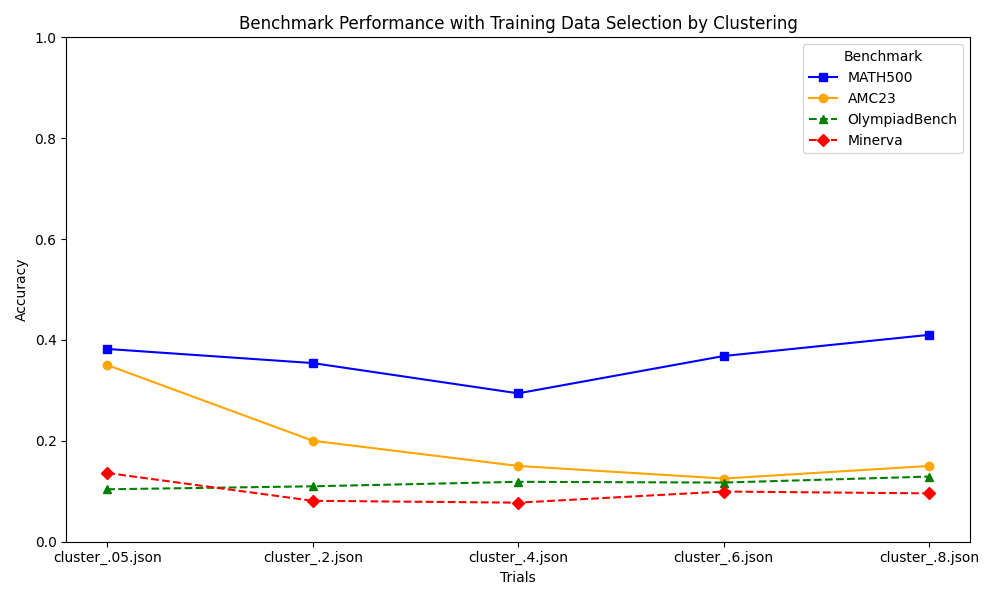
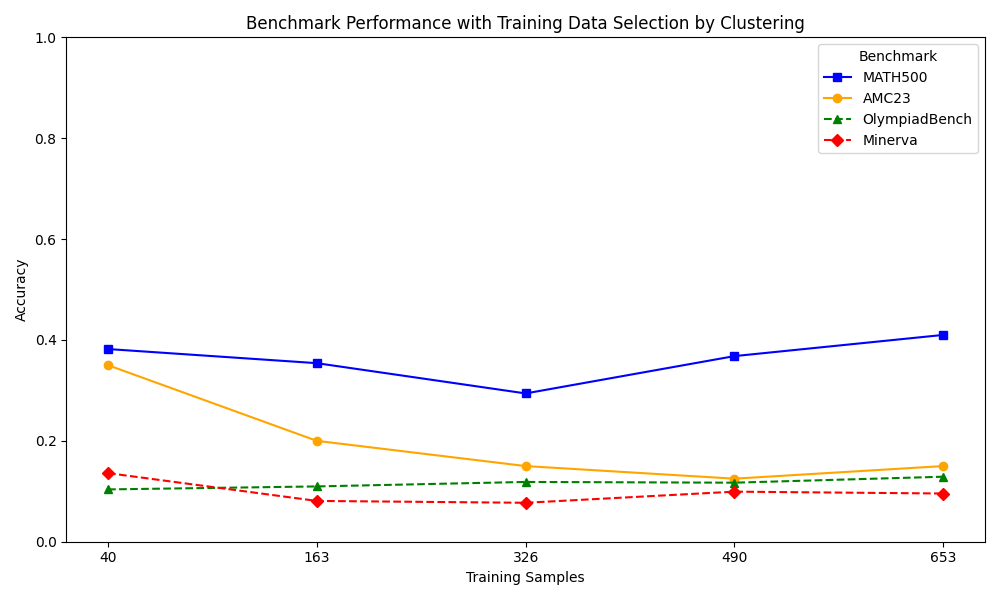
Change x axis to be number of training samples instead of file name

diff --git a/plot_results.py b/plot_results.py
@@ -2,10 +2,11 @@ import json
 import os
 import matplotlib.pyplot as plt
 import numpy as np
+import math
 
 # Load the benchmark performance results for all trials that used
 # the given training data selection method
-def load_acc_results(results_folder, selection_method, benchmarks):
+def load_acc_results(results_folder, selection_method, benchmarks, total_train_samples):
     acc_results = {}
 
     for filename in os.listdir(results_folder):
@@ -18,14 +19,16 @@ def load_acc_results(results_folder, selection_method, benchmarks):
                 for benchmark in benchmarks:
                     acc = benchmark_results[benchmark]["accuracy"]
                     accuracies.append(acc)
-                acc_results[filename] = accuracies # store all benchmark accuracies for the current trial
+                train_sample_proportion = float(filename.strip(".json").split("_")[1])
+                num_train_samples = math.floor(train_sample_proportion * total_train_samples)
+                acc_results[num_train_samples] = accuracies # store all benchmark accuracies for the current trial
 
     return acc_results
 
 
 # Create a grouped bar chart showing the benchmark accuracies for each trial
 def plot_results(acc_results, plot_title, benchmarks, benchmark_plot_styles, selection_method):
-    trial_names = acc_results.keys()
+    trial_names = acc_results.keys() # trials are named according to the number of training samples used
     num_trials = len(trial_names)
     num_benchmarks = len(benchmarks)
 
@@ -39,7 +42,7 @@ def plot_results(acc_results, plot_title, benchmarks, benchmark_plot_styles, sel
         axes.plot(x, [acc_results[trial_name][i] for trial_name in trial_names], marker=marker, label=benchmark, linestyle=linestyle, color=color)
 
     axes.set_ylabel("Accuracy")
-    axes.set_xlabel("Trials")
+    axes.set_xlabel("Training Samples")
     axes.set_title(plot_title)
     axes.set_xticks(x)
     axes.set_xticklabels(trial_names) # show trial file names for each bar group
@@ -52,6 +55,7 @@ def plot_results(acc_results, plot_title, benchmarks, benchmark_plot_styles, sel
     plt.show()
 
 def main():
+    total_train_samples = 817 # number of training examples in LIMO dataset
     results_folder = "results"
     benchmarks = ["MATH500", "AMC23", "OlympiadBench", "Minerva"]
     # for each benchmark specify marker, linestyle, and color
@@ -65,7 +69,7 @@ def main():
                    "cluster": "Benchmark Performance with Training Data Selection by Clustering"}
 
     for selection_method in selection_methods:
-        acc_results = load_acc_results(results_folder, selection_method, benchmarks)
+        acc_results = load_acc_results(results_folder, selection_method, benchmarks, total_train_samples)
         plot_title = plot_titles[selection_method]
         plot_results(acc_results, plot_title, benchmarks, benchmark_plot_styles, selection_method)
 
